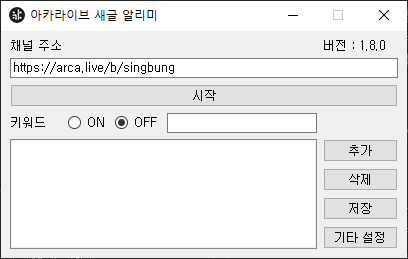
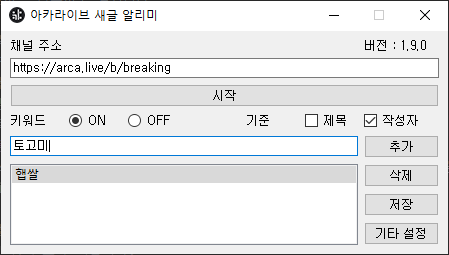
1.9.0 업데이트

diff --git a/main.py b/main.py
@@ -58,7 +58,7 @@ import smtplib
 import cerberus
 from email.message import EmailMessage
 
-version = '1.8.4'
+version = '1.9.0'
 
 class get_default_logger(object):
     def __new__(cls):
@@ -83,6 +83,7 @@ class get_validator(object):
                 'config_name': {'type': 'string'},
                 'channel_url': {'type': 'string'},
                 'use_filtering': {'type': 'boolean'},
+                'filtering_type': {'type': 'dict', 'schema': {'Title': {'type': 'boolean'}, 'Author': {'type': 'boolean'}}},
                 'keyword_list': {'type': 'list', 'schema': {'type': 'string'}},
                 'notify_type': {'type': 'dict', 'schema': {'Desktop': {'type': 'boolean'}, 'Mobile': {'type': 'boolean'}}},
                 'email': {'type': 'string'},
@@ -100,6 +101,7 @@ class get_default_config(object):
             default_config['config_name'] = 'default'
             default_config['channel_url'] = 'https://arca.live/b/breaking'
             default_config['use_filtering'] = False
+            default_config['filtering_type'] = {'Title': True, 'Author': False}
             default_config['keyword_list'] = []
             default_config['notify_type'] = {'Desktop': True, 'Mobile': False}
             default_config['email'] = ''
@@ -468,10 +470,10 @@ class Notification(QThread):
                     self.logger.debug('키워드 비활성화 상태')
                     self.notification_action(title_f, author, post_id)
                     self.recent = post_id
-                # 키워드=on 일 경우, 제목에 키워드가 포함 되어있다면 토스트 메시지로 표시
+                # 키워드=on 일 경우, 체크된 기준(제목 혹은 작성자)에 키워드가 포함 되어있다면 토스트 메시지로 표시
                 else:
                     for keyword in self.keyword_list:
-                        if keyword in title_f:
+                        if (ex.k_titleCB.isChecked() and keyword in title_f) or (ex.k_authorCB.isChecked() and keyword in author):
                             if post_id < self.last_check:
                                 self.logger.info(f'변경글 파싱 성공: {post_id}')
                                 self.logger.debug(f'updated article data: {dict(title=title_f, author=author)}')
@@ -531,6 +533,7 @@ class MyApp(QWidget):
         # 시작/중지 버튼
         self.startBtn = QPushButton('시작', self)
         self.startBtn.clicked.connect(self.startNotification)
+        self.startBtn.clicked.connect(self.updateKeywordGroupState)
 
         self.keywordLb = QLabel('키워드')
         self.keywordLW = QListWidget(self)
@@ -541,6 +544,13 @@ class MyApp(QWidget):
         self.k_group = QButtonGroup(self)
         self.k_group.addButton(self.k_onRB)
         self.k_group.addButton(self.k_offRB)
+        self.k_onRB.clicked.connect(self.updateOptionState)
+        self.k_offRB.clicked.connect(self.updateOptionState)
+
+        # 키워드 제목/작성자 선택 버튼
+        self.isTitleLb = QLabel('기준')
+        self.k_titleCB = QCheckBox('제목', self)
+        self.k_authorCB = QCheckBox('작성자', self)
 
         # 추가할 키워드 적는 칸
         self.newItemLE = QLineEdit('', self)
@@ -559,18 +569,21 @@ class MyApp(QWidget):
 
         # 위에서 선언한 위젯들의 위치를 지정
         grid.addWidget(self.urlLb, 0, 0)
-        grid.addWidget(self.m_versionLb, 0, 4)
-        grid.addWidget(self.urlLE, 1, 0, 1, 5)
-        grid.addWidget(self.startBtn, 2, 0, 1, 5)
+        grid.addWidget(self.m_versionLb, 0, 6)
+        grid.addWidget(self.urlLE, 1, 0, 1, 7)
+        grid.addWidget(self.startBtn, 2, 0, 1, 7)
         grid.addWidget(self.keywordLb, 3, 0)
         grid.addWidget(self.k_onRB, 3, 1)
         grid.addWidget(self.k_offRB, 3, 2)
-        grid.addWidget(self.newItemLE, 3, 3)
-        grid.addWidget(self.keywordLW, 4, 0, 4, 4)
-        grid.addWidget(self.k_appendBtn, 4, 4)
-        grid.addWidget(self.k_removeBtn, 5, 4)
-        grid.addWidget(self.saveCrntBtn, 6, 4)
-        grid.addWidget(self.settingBtn, 7, 4)
+        grid.addWidget(self.isTitleLb, 3, 4)
+        grid.addWidget(self.k_titleCB, 3, 5)
+        grid.addWidget(self.k_authorCB, 3, 6)
+        grid.addWidget(self.newItemLE, 4, 0, 1, 6)
+        grid.addWidget(self.keywordLW, 5, 0, 3, 6)
+        grid.addWidget(self.k_appendBtn, 4, 6)
+        grid.addWidget(self.k_removeBtn, 5, 6)
+        grid.addWidget(self.saveCrntBtn, 6, 6)
+        grid.addWidget(self.settingBtn, 7, 6)
 
         return widget
 
@@ -675,10 +688,13 @@ class MyApp(QWidget):
     def get_config(self):
         use_desktop = self.nt_desktopRB.isChecked() or self.nt_bothRB.isChecked()
         use_mobile = self.nt_mobileRB.isChecked() or self.nt_bothRB.isChecked()
+        keyword_opt_title = self.k_titleCB.isChecked()
+        keyword_opt_author = self.k_authorCB.isChecked()
         current_config = dict()
         current_config['config_name'] = self.config_name
         current_config['channel_url'] = self.urlLE.text()
         current_config['use_filtering'] = self.k_onRB.isChecked()
+        current_config['filtering_type'] = {'Title': keyword_opt_title, 'Author': keyword_opt_author}
         current_config['keyword_list'] = [self.keywordLW.item(i).text() for i in range(self.keywordLW.count())]
         current_config['notify_type'] = {'Desktop': use_desktop, 'Mobile': use_mobile}
         current_config['email'] = self.emailLE.text()
@@ -694,9 +710,17 @@ class MyApp(QWidget):
         self.keywordLW.addItems(init_config['keyword_list'])
         if init_config['use_filtering']:
             self.k_onRB.setChecked(True)
+            self.k_titleCB.setEnabled(True)
+            self.k_authorCB.setEnabled(True)
         else:
             self.k_offRB.setChecked(True)
+            self.k_titleCB.setEnabled(False)
+            self.k_authorCB.setEnabled(False)
         self.newItemLE.clear()
+        if init_config['filtering_type']['Title']:
+            self.k_titleCB.setChecked(True)
+        if init_config['filtering_type']['Author']:
+            self.k_authorCB.setChecked(True)
         if init_config['notify_type']['Mobile']:
             if init_config['notify_type']['Desktop']:
                 self.nt_bothRB.setChecked(True)
@@ -754,6 +778,26 @@ class MyApp(QWidget):
             self.thread.done.connect(self.done)
             self.stop.connect(self.thread.stop)
             self.thread.start()
+
+    def updateKeywordGroupState(self):
+        if self.startBtn.text() == '중지':
+            for button in self.k_group.buttons():
+                button.setEnabled(True)
+            self.k_titleCB.setEnabled(True)
+            self.k_authorCB.setEnabled(True)
+        else:
+            for button in self.k_group.buttons():
+                button.setEnabled(False)
+            self.k_titleCB.setEnabled(False)
+            self.k_authorCB.setEnabled(False)
+
+    def updateOptionState(self):
+        if self.k_onRB.isChecked():
+            self.k_titleCB.setEnabled(True)
+            self.k_authorCB.setEnabled(True)
+        else:
+            self.k_titleCB.setEnabled(False)
+            self.k_authorCB.setEnabled(False)
 
     # 키워드 추가 버튼
     def k_append(self):
